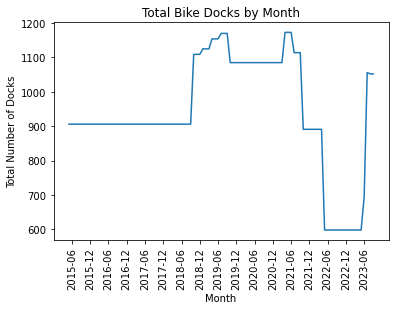
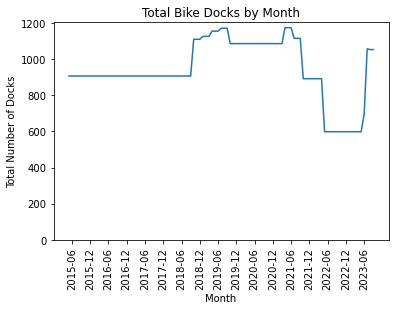
add data exploration code; adjust trips-v-stations viz and add trips-v-docks viz

diff --git a/code/5-exploration.py b/code/5-exploration.py
@@ -12,5 +12,63 @@ from matplotlib import pyplot as plt
 dirpath = os.path.join("C:", os.sep, "Users", "Allie", "Projects", "Other", "POGOH")
 os.chdir(dirpath)
 
-trips_data = 
+trips_data = pd.read_csv(os.path.join("data", "processed", "trips_clean.csv"), 
+                        dtype={'Closed Status': str}, index_col=0)
+trips_data = trips_data.drop(columns = {"Unnamed: 0.4","Unnamed: 0.3","Unnamed: 0.2"})
 
+trips_desc = trips_data.describe()
+print(trips_desc["Duration"])
+print(trips_data["Duration"].quantile(np.arange(0.1,1.0,0.05)))
+print(trips_data["Duration"].quantile(np.arange(0.9,1.0,0.01)))
+print(trips_data["Duration"].quantile(np.arange(0.99,1.0,0.001)))
+
+
+
+# looking for cutoff points on right hand tail of data (v long trips)
+plt.hist(trips_data[trips_data["Duration"]<=86400]["Duration"], bins=150)
+plt.hist(trips_data[(trips_data["Duration"]>=15000) & (trips_data["Duration"]<=86400)]["Duration"], bins=150)
+plt.hist(trips_data[(trips_data["Duration"]>=15000)]["Duration"], bins=150)
+plt.axvline(95000, color="red")
+plt.axvline(110000, color="orange")
+
+
+
+# looking for cutoff points on lefthand 'tail' of data (v short trips)
+plt.hist(trips_data[trips_data["Duration"] < 1000]["Duration"], bins=100)
+plt.axvline(150, color="r") 
+
+trips_short = trips_data[ trips_data["Duration"] < 600]
+plt.hist(trips_short["Duration"], bins=60)
+plt.axvline(150, color="r")
+
+trips_short["Start Yr-Mon"].unique()   #no obv months/years with weird data
+len(trips_short["Start Station Name"].unique()) # no obv stations with weird data
+len(trips_short["End Station Name"].unique()) # no obv stations with weird data
+len(trips_short)    
+
+#not all are bikes returned to same station
+trips_short_same = trips_short[ trips_short["Start Station Name"] == trips_short["End Station Name"]]
+len(trips_short_same)
+trips_short_same["Duration"].describe()
+trips_short_same["Start Yr-Mon"].unique() #no patterns in date
+
+# in fact, more are bikes returned to diff station
+trips_short_diff = trips_short[ trips_short["Start Station Name"] != trips_short["End Station Name"]]
+len(trips_short_diff)
+trips_short_diff["Duration"].describe()
+trips_short_same["Start Yr-Mon"].unique() #no patterns in date...
+
+# random selections from trips_short_diff look reasonable
+trips_short_diff.iloc[2]
+trips_short_diff.iloc[53]
+trips_short_diff.iloc[35000]
+trips_short_diff.iloc[-50]
+trips_short_diff.iloc[-1]
+
+trips_v_short = trips_data[ trips_data["Duration"] < 150]
+len(trips_v_short)
+trips_v_short["Start Yr-Mon"].unique() # still no patterns!
+
+trips_v_short_same = trips_v_short[ trips_v_short["Start Station Name"] == trips_v_short["End Station Name"]]
+len(trips_v_short_same)
+# most of the v short trips start and end at the same station... but not a huge majority

diff --git a/code/4-viz_experiments.py b/code/4-viz_experiments.py
@@ -18,7 +18,6 @@ trips_cln = pd.read_csv(os.path.join("data", "processed", "trips_clean.csv"),
                         dtype={'Closed Status': str})
 trips_cln = trips_cln.drop(columns = {"Unnamed: 0"}) 
 
-trips_cln["Duration"].describe()
 
 
 
@@ -150,6 +149,7 @@ fig, ax = plt.subplots()
 ax.plot(stns_by_month["Date"], stns_by_month["Station Count"])
 ax.set_xlabel("Month")
 ax.set_ylabel("Total Number of Stations")
+ax.set_ylim(bottom = 0)
 ax.set_xticks(np.arange(1,100,step=6))
 ax.set_xticklabels(labels, rotation=90)
 ax.set_title("Total Stations by Month")
@@ -159,6 +159,7 @@ fig, ax = plt.subplots()
 ax.plot(stns_by_month["Date"], stns_by_month["Total Docks"])
 ax.set_xlabel("Month")
 ax.set_ylabel("Total Number of Docks")
+ax.set_ylim(bottom = 0)
 ax.set_xticks(np.arange(1,100,step=6))
 ax.set_xticklabels(labels, rotation=90)
 ax.set_title("Total Bike Docks by Month")
@@ -175,9 +176,23 @@ ax2.plot(stns_by_month["Date"], trips_by_month, color="royalblue")
 plt.xticks(np.arange(1, 100, step=6))
 ax1.set_xticklabels(stns_by_month["Date"][np.arange(1,100,6)], rotation=90)
 ax1.set_ylabel("Total Stations", color="orange")
+ax1.set_ylim(bottom = 0)
 ax2.set_ylabel("Total Trips", color="royalblue")
 plt.title("Trips and Stations by Month")
 plt.savefig(os.path.join("visualizations","stns_and_trips_by_month.png"),
             bbox_inches="tight")
 
+# trips and DOCKS by month
+fig, ax1 = plt.subplots()
+ax2 = ax1.twinx()
+ax1.plot(stns_by_month["Date"], stns_by_month["Total Docks"], color="orange")
+ax2.plot(stns_by_month["Date"], trips_by_month, color="royalblue")
+plt.xticks(np.arange(1, 100, step=6))
+ax1.set_xticklabels(stns_by_month["Date"][np.arange(1,100,6)], rotation=90)
+ax1.set_ylabel("Total Docks", color="orange")
+ax1.set_ylim(bottom = 0)
+ax2.set_ylabel("Total Trips", color="royalblue")
+plt.title("Number of Trips and Number of Bike Docks by Month")
+plt.savefig(os.path.join("visualizations","docks_and_trips_by_month.png"),
+            bbox_inches="tight")
 
